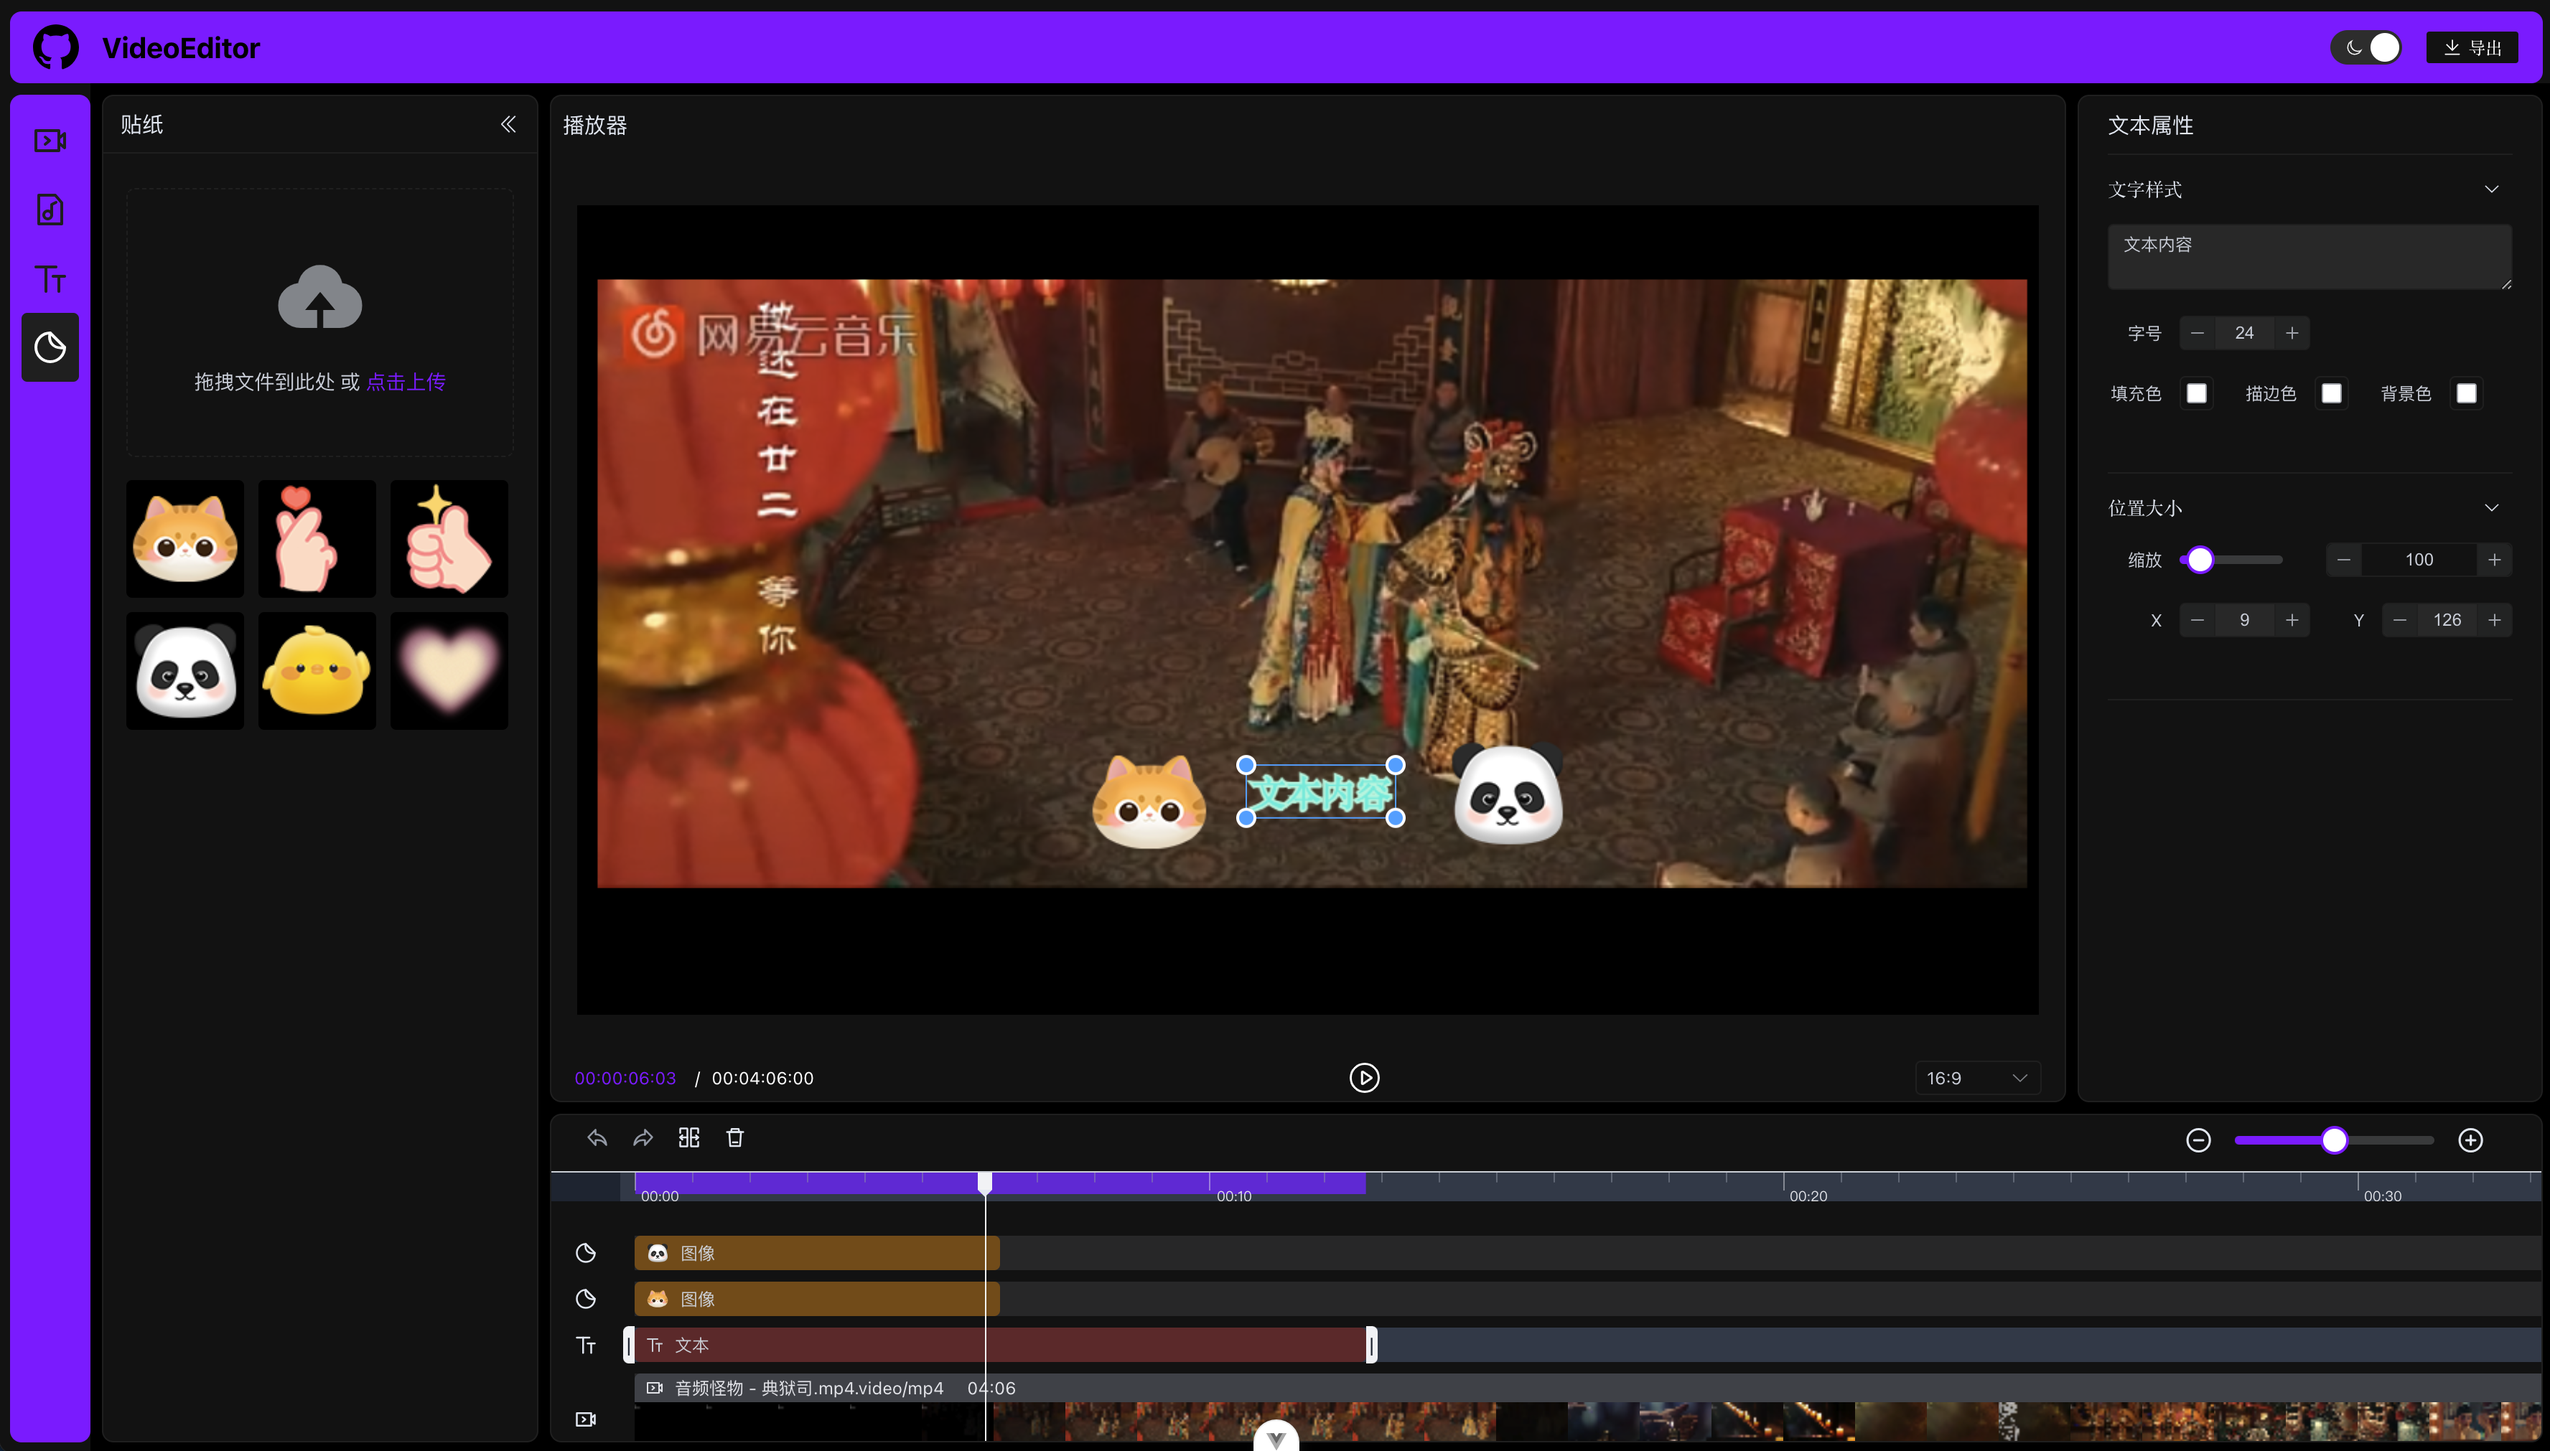
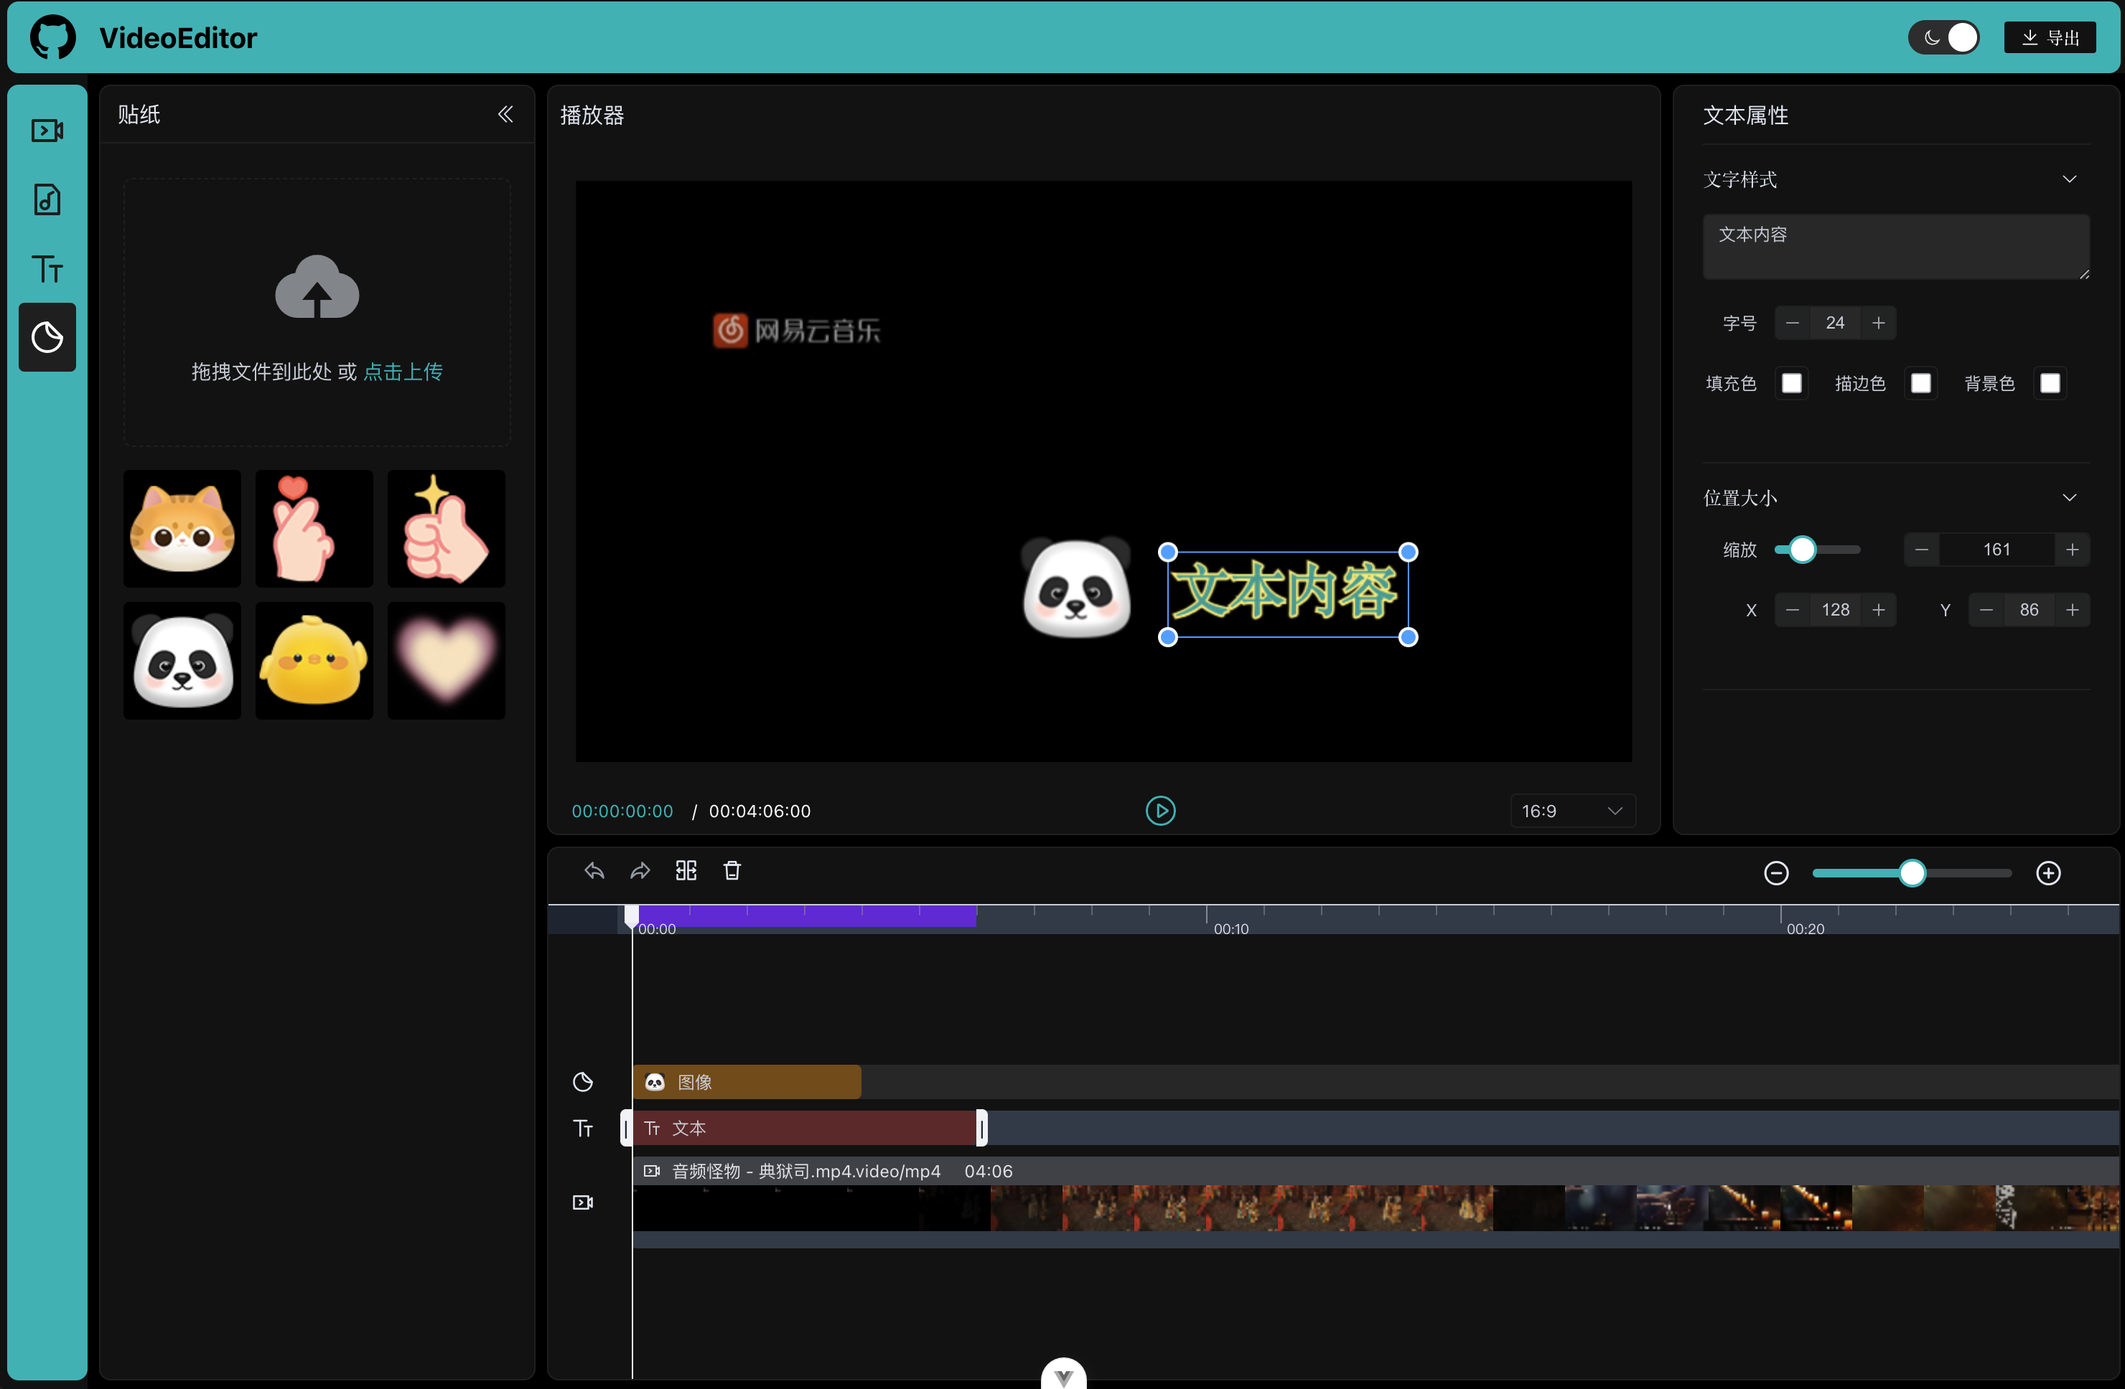
fix: 添加部署脚本，修改样式

diff --git a/src/styles/dark.scss b/src/styles/dark.scss
@@ -1,6 +1,6 @@
 html.dark {
 	color-scheme: dark;
-	--el-color-primary: #8b00ff;
+	--el-color-primary: #00bdbd;
 	--el-color-primary-light-3: #9c37f0;
 	--el-color-primary-light-5: #50078d;
 	--el-color-primary-light-7: #213d5b;
@@ -48,7 +48,6 @@ html.dark {
 	--el-box-shadow-dark: 0px 16px 48px 16px rgba(0, 0, 0, 0.72), 0px 12px 32px #000000,
 		0px 8px 16px -8px #000000;
 	--el-bg-color-page: #0a0a0a;
-	/* --el-bg-color: #141414; */
 	--el-bg-color: #111;
 	--el-bg-color-overlay: #1d1e1f;
 	--el-text-color-primary: #e5eaf3;
@@ -58,7 +57,6 @@ html.dark {
 	--el-text-color-disabled: #6c6e72;
 	--el-border-color-darker: #636466;
 	--el-border-color-dark: #58585b;
-	/* --el-border-color: #4C4D4F; */
 	--el-border-color: #222;
 	--el-border-color-light: #414243;
 	--el-border-color-lighter: #363637;
@@ -75,7 +73,14 @@ html.dark {
 }
 
 html.dark .el-button {
-	--el-button-disabled-text-color: rgba(255, 255, 255, 0.5) --el-button-hover-bg-color: #8b00ff;
+	--el-button-disabled-text-color: rgba(255, 255, 255, 0.5);
+	--el-button-border-color: var(--el-color-primary);
+}
+
+html.dark .el-button:hover {
+	--el-button-text-color: #00bdbd;
+	--el-button-hover-bg-color: var(--el-bg-color);
+	color: var(--el-button-text-color);
 }
 
 html.dark .el-card {

diff --git a/src/styles/light.scss b/src/styles/light.scss
@@ -1,0 +1,44 @@
+:root {
+	--el-color-primary: #00bdbd;
+	--el-color-primary-light-3: #00bdbd;
+	--el-color-primary-light-5: #00bdbd;
+
+	--el-bg-color: #fafafa;
+	--el-bg-color-dark: #111;
+	--el-button-bg-color: #00bdbd;
+	--el-button-bg-dark-color: #111;
+	--el-button-hover-bg-color: #111;
+	--el-button-text-color: #fff;
+
+	--el-switch-on-color: #333;
+	--el-switch-off-color: #fafafa;
+
+	--el-collapse-header-bg-color: #fafafa;
+	--el-collapse-content-bg-color: #fafafa;
+}
+
+
+.el-button {
+	background: var(--el-bg-color-dark);
+}
+.el-button:hover {
+	background: var(--el-bg-color-dark);
+	border-color: var(--el-color-primary);
+	color: var(--el-button-text-color);
+}
+
+.el-switch.is-checked .el-switch__core {
+	background: var(--el-switch-on-color);
+}
+
+.el-collapse {
+	.el-collapse-item__header {
+		background: var(--el-collapse-header-bg-color);
+	}
+	.el-collapse-item__content {
+		background: var(--el-collapse-content-bg-color);
+	}
+	.el-collapse-item__wrap {
+		background: var(--el-collapse-content-bg-color);
+	}
+}

diff --git a/scripts/deploy/ServerDeploy.js b/scripts/deploy/ServerDeploy.js
@@ -75,7 +75,7 @@ export class ServerDeploy extends BaseDeploy {
 					await Promise.all(
 						files.map(async file => {
 							const filePath = path.join(
-								path.resolve(dirname(fileURLToPath(import.meta.url)), '..'),
+								path.resolve(dirname(fileURLToPath(import.meta.url)), '../../'),
 								file
 							)
 

diff --git a/src/main.ts b/src/main.ts
@@ -1,7 +1,7 @@
 import 'uno.css'
 import 'element-plus/dist/index.css'
 import 'element-plus/theme-chalk/dark/css-vars.css'
-import './styles/custom-theme.scss'
+import './styles/light.scss'
 import './styles/index.scss'
 
 import { createApp } from 'vue'
